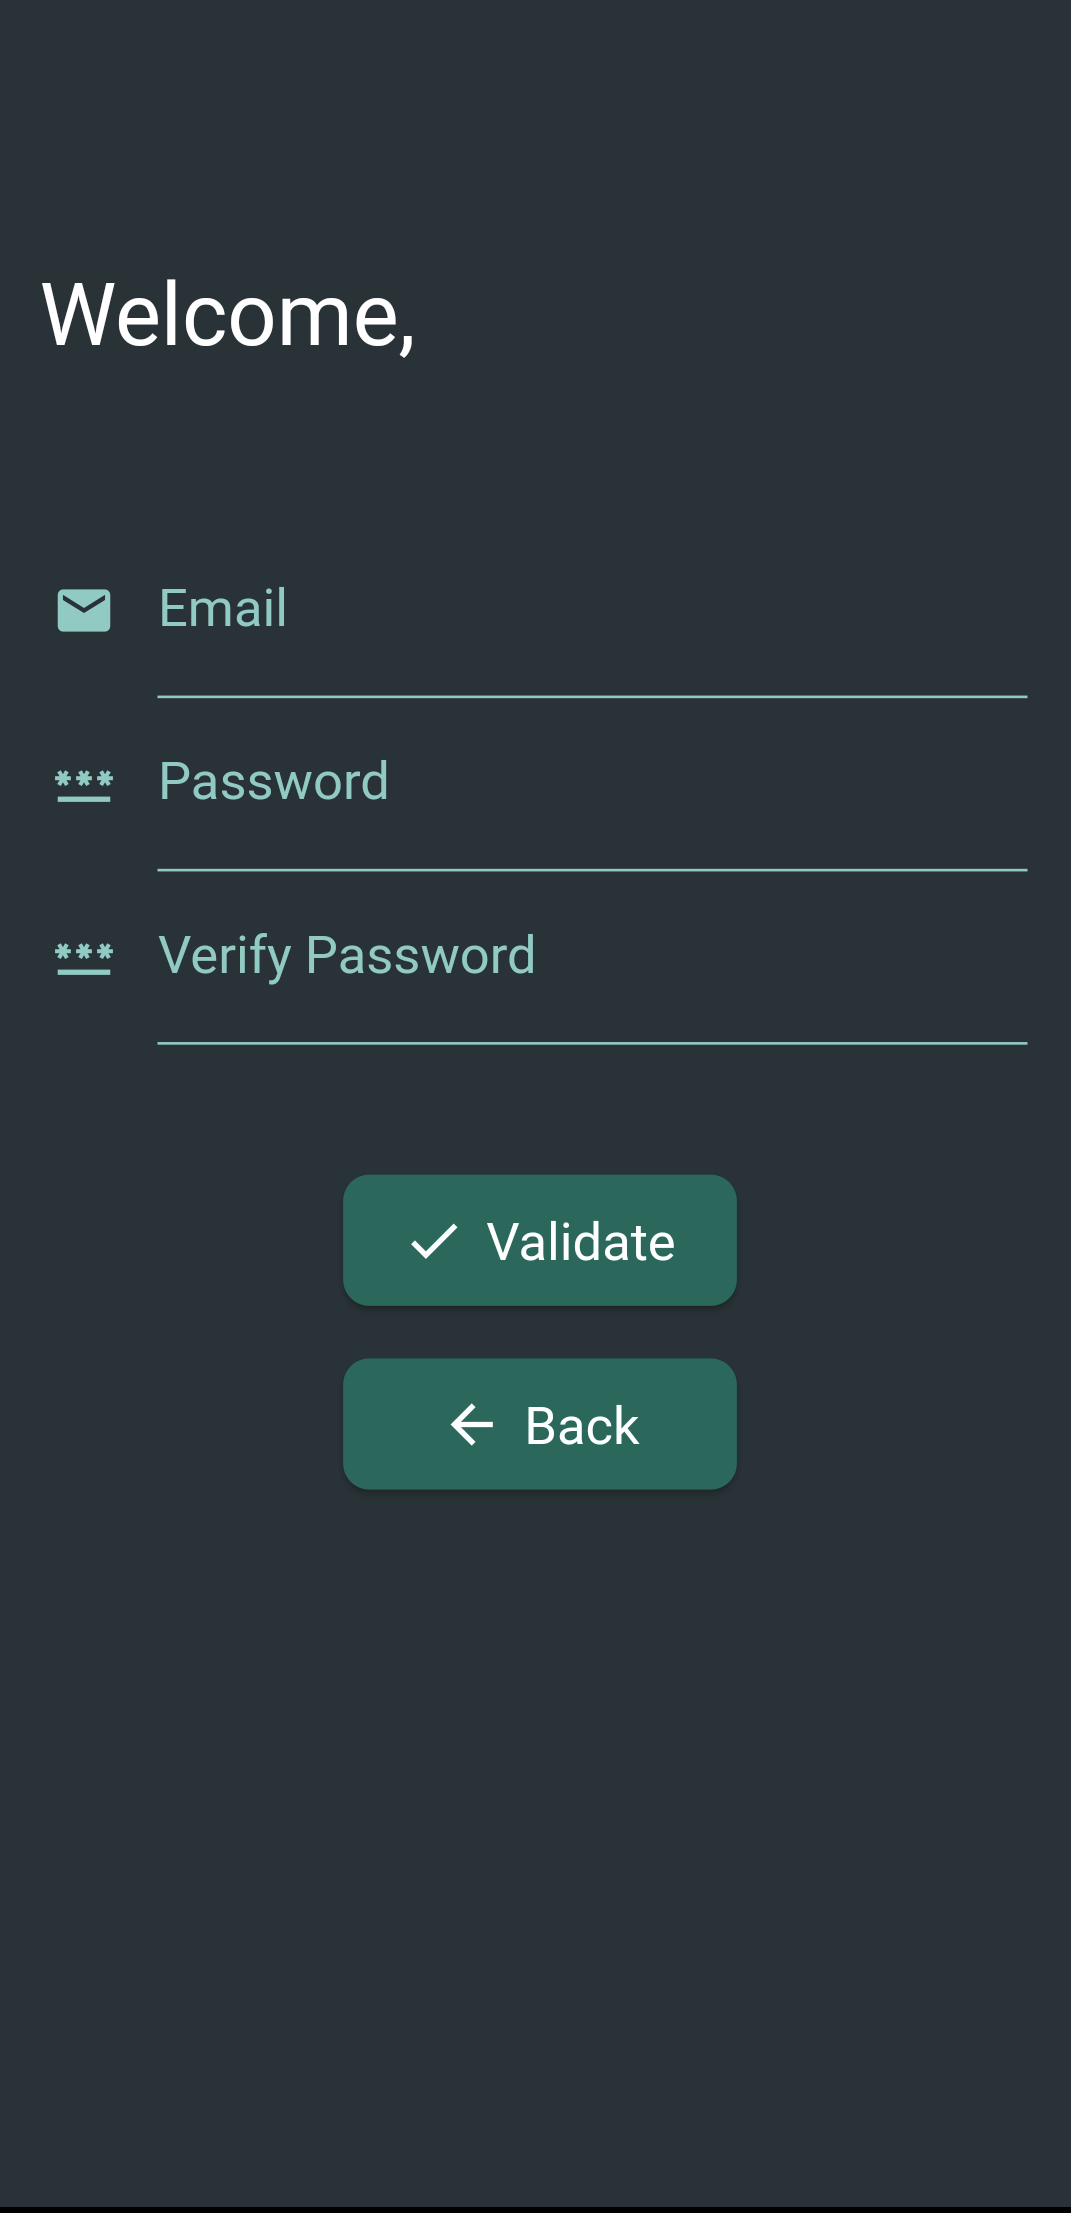
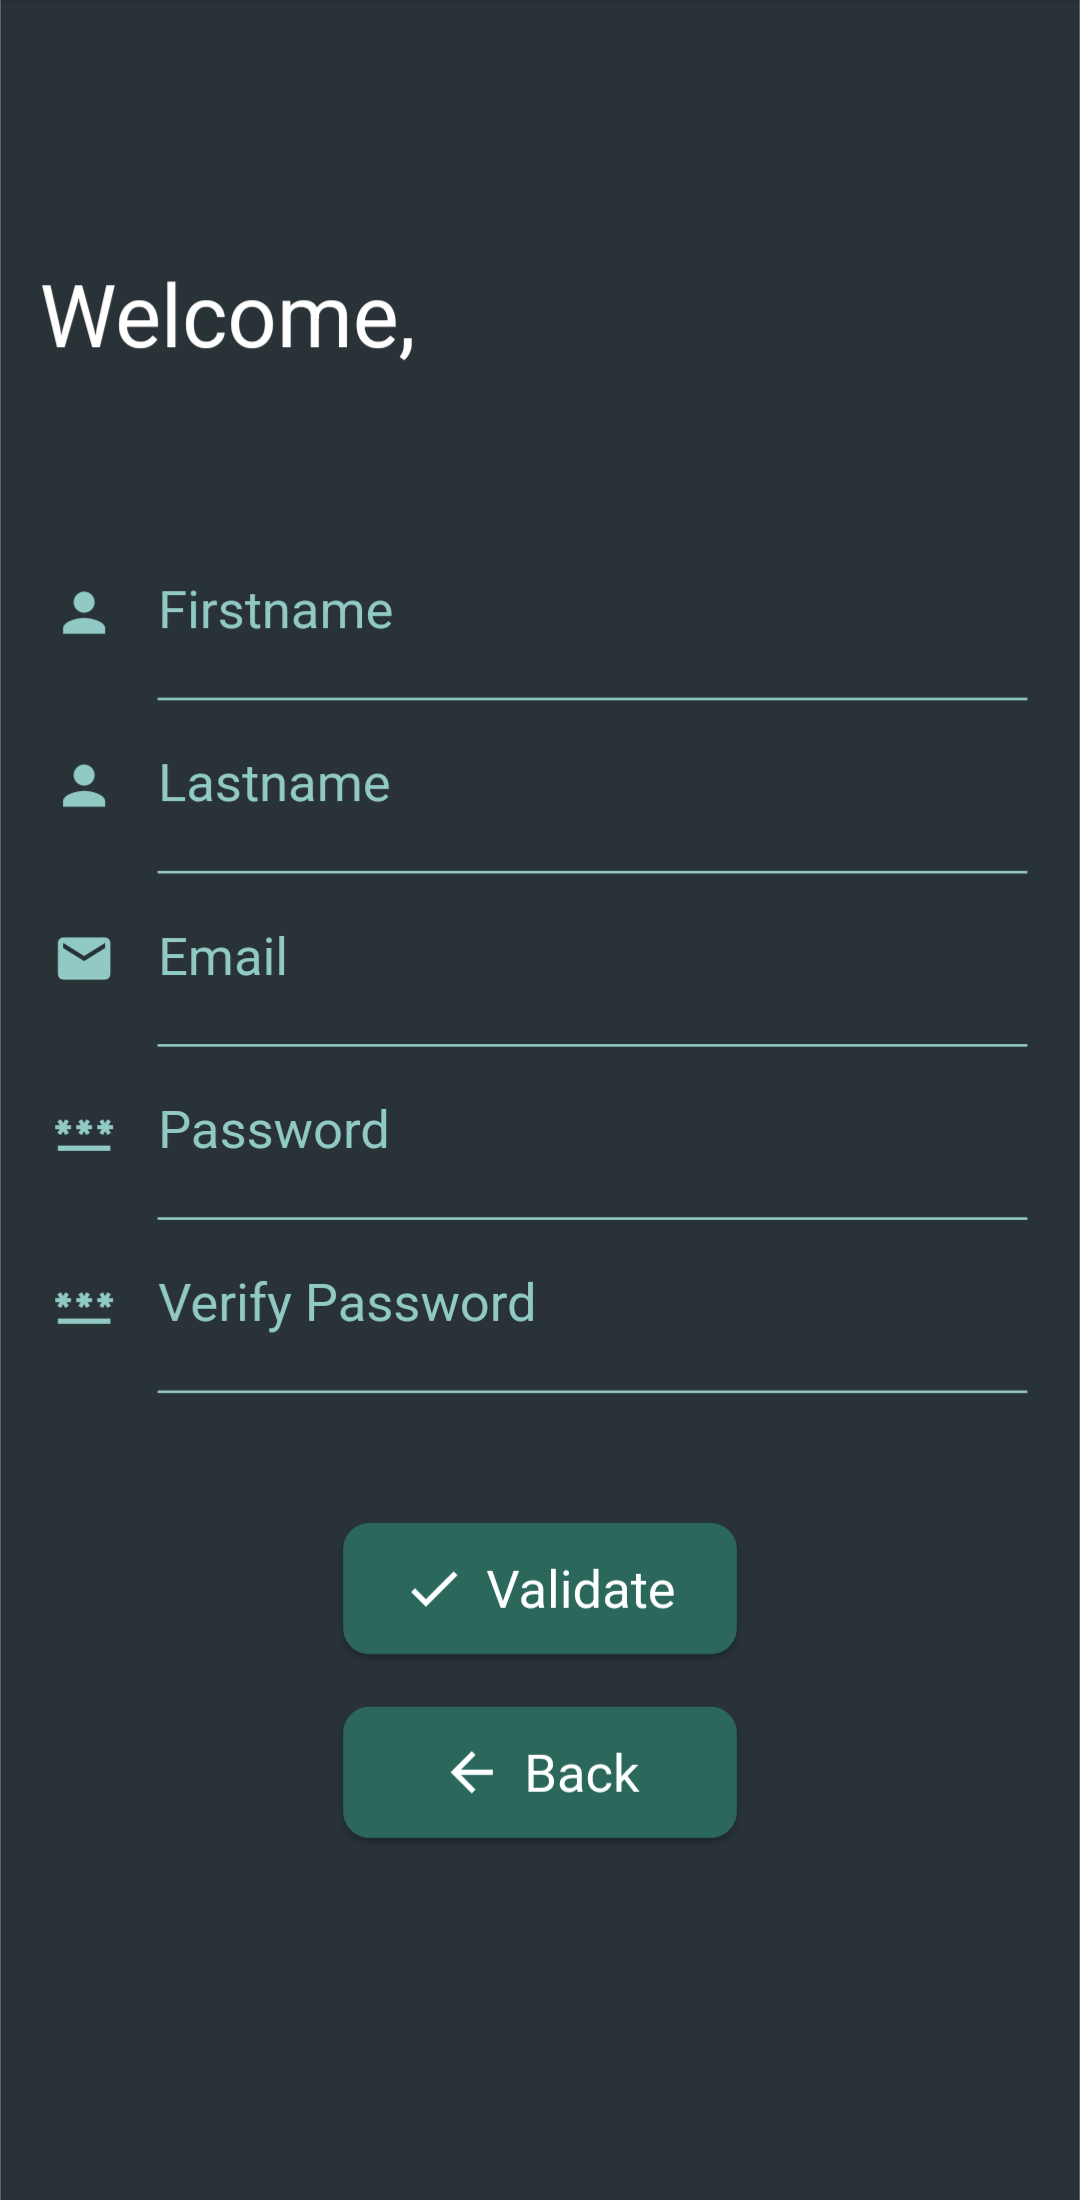
add user names and unfollow feature (#22)

diff --git a/lib/presentation/registration/screens/registration_screen.dart b/lib/presentation/registration/screens/registration_screen.dart
@@ -47,6 +47,34 @@ class RegistrationScreen extends HookConsumerWidget {
                       key: formKey,
                       child: Column(
                         children: [
+                          // Firstname TextFormField
+                          TextFormField(
+                            style: FormUtils.darkTextFormFieldStyle,
+                            decoration: FormUtils.createInputDecorative(
+                              AppLocalizations.of(context)!.firstname,
+                              dark: true,
+                              icon: Icons.person,
+                            ),
+                            validator: (value) =>
+                                LoginValidators.name(context, value),
+                            onSaved: (value) {
+                              provider.setFirstname(value);
+                            },
+                          ),
+                          // Lastname TextFormField
+                          TextFormField(
+                            style: FormUtils.darkTextFormFieldStyle,
+                            decoration: FormUtils.createInputDecorative(
+                              AppLocalizations.of(context)!.lastname,
+                              dark: true,
+                              icon: Icons.person,
+                            ),
+                            validator: (value) =>
+                                LoginValidators.name(context, value),
+                            onSaved: (value) {
+                              provider.setLastname(value);
+                            },
+                          ),
                           // Email TextFormField
                           TextFormField(
                             style: FormUtils.darkTextFormFieldStyle,

diff --git a/lib/presentation/registration/view_model/registration_view_model.dart b/lib/presentation/registration/view_model/registration_view_model.dart
@@ -1,7 +1,7 @@
 import 'package:flutter/material.dart';
 import 'package:hooks_riverpod/hooks_riverpod.dart';
 
-import '../../../data/model/request/login_request.dart';
+import '../../../data/model/request/registration_request.dart';
 import '../../../data/repositories/user_repository_impl.dart';
 import '../../../main.dart';
 import 'state/registration_state.dart';
@@ -16,6 +16,16 @@ class RegistrationViewModel extends StateNotifier<RegistrationState> {
 
   /// Creates a new instance of [RegistrationViewModel].
   RegistrationViewModel(this.ref) : super(RegistrationState.initial());
+
+  /// Sets the firstname in the state.
+  void setFirstname(String? firstname) {
+    state = state.copyWith(firstname: firstname);
+  }
+
+  /// Sets the lastname in the state.
+  void setLastname(String? lastname) {
+    state = state.copyWith(lastname: lastname);
+  }
 
   /// Sets the username in the state.
   void setUsername(String? username) {
@@ -41,13 +51,15 @@ class RegistrationViewModel extends StateNotifier<RegistrationState> {
       state = state.copyWith(isLogging: true);
 
       final userRepository = ref.read(userRepositoryProvider);
-      final loginRequest = LoginRequest(
+      final registrationRequest = RegistrationRequest(
+        firstname: state.firstname,
+        lastname: state.lastname,
         username: state.username,
         password: state.password,
       );
 
       try {
-        await userRepository.register(loginRequest);
+        await userRepository.register(registrationRequest);
         navigatorKey.currentState?.pop();
       } catch (error) {
         // Show error message to the user

diff --git a/lib/presentation/registration/view_model/state/registration_state.dart b/lib/presentation/registration/view_model/state/registration_state.dart
@@ -1,5 +1,7 @@
 /// Represents the state of the registration screen.
 class RegistrationState {
+  final String firstname;
+  final String lastname;
   final String username;
   final String password;
   final String checkPassword;
@@ -7,6 +9,8 @@ class RegistrationState {
 
   /// Creates a new instance of [RegistrationState].
   const RegistrationState({
+    required this.firstname,
+    required this.lastname,
     required this.username,
     required this.password,
     required this.checkPassword,
@@ -16,6 +20,8 @@ class RegistrationState {
   /// Creates the initial state for the registration screen.
   factory RegistrationState.initial() {
     return const RegistrationState(
+      firstname: '',
+      lastname: '',
       username: '',
       password: '',
       checkPassword: '',
@@ -25,12 +31,16 @@ class RegistrationState {
 
   /// Creates a copy of this state object with the specified changes.
   RegistrationState copyWith({
+    String? firstname,
+    String? lastname,
     String? username,
     String? password,
     String? checkPassword,
     bool? isLogging,
   }) {
     return RegistrationState(
+      firstname: firstname ?? this.firstname,
+      lastname: lastname ?? this.lastname,
       username: username ?? this.username,
       password: password ?? this.password,
       checkPassword: checkPassword ?? this.checkPassword,

diff --git a/lib/data/model/response/user_response.dart b/lib/data/model/response/user_response.dart
@@ -6,22 +6,37 @@ class UserResponse extends Equatable {
   /// The ID of the user.
   final String id;
 
+  /// The firstname of the user
+  final String? firstname;
+
+  /// The lastname of the user
+  final String? lastname;
+
   /// The username of the user
   final String username;
 
   /// Constructs an UserResponse object with the given parameters.
-  const UserResponse({required this.id, required this.username});
+  const UserResponse(
+      {required this.id,
+      required this.username,
+      required this.firstname,
+      required this.lastname});
 
   @override
   List<Object?> get props => [id, username];
 
   /// Creates an UserResponse object from a JSON map.
   factory UserResponse.fromMap(Map<String, dynamic> map) {
-    return UserResponse(id: map['id'].toString(), username: map['username']);
+    return UserResponse(
+        id: map['id'].toString(),
+        username: map['username'],
+        firstname: map['firstname'],
+        lastname: map['lastname']);
   }
 
   /// Converts the UserResponse object to a User entity.
   User toEntity() {
-    return User(id: id, username: username);
+    return User(
+        id: id, username: username, firstname: firstname, lastname: lastname);
   }
 }

diff --git a/lib/data/model/request/registration_request.dart b/lib/data/model/request/registration_request.dart
@@ -1,0 +1,40 @@
+import 'package:equatable/equatable.dart';
+
+/// Represents a registration request object.
+class RegistrationRequest extends Equatable {
+  /// The firstname for the registration request.
+  final String firstname;
+
+  /// The lastname for the registration request.
+  final String lastname;
+
+  /// The username for the registration request.
+  final String username;
+
+  /// The password for the registration request.
+  final String password;
+
+  /// Constructs a RegistrationRequest object with the given parameters.
+  const RegistrationRequest({
+    required this.firstname,
+    required this.lastname,
+    required this.username,
+    required this.password,
+  });
+
+  @override
+  List<Object?> get props => [username, password];
+
+  /// Converts the RegistrationRequest object to a JSON map.
+  Map<String, dynamic> toMap() {
+    return {
+      'firstname': firstname,
+      'lastname': lastname,
+      'username': username,
+      'password': password,
+    };
+  }
+
+  @override
+  bool get stringify => true;
+}

diff --git a/lib/presentation/common/user/widgets/friend_request.dart b/lib/presentation/common/user/widgets/friend_request.dart
@@ -23,15 +23,21 @@ class FriendRequestWidget extends HookConsumerWidget {
         Colors.orange,
       );
     } else if (state.friendshipStatus == FriendRequestStatus.accepted) {
-      return _buildStatusWidget(
-        context,
-        Icons.check,
-        Colors.green,
-        AppLocalizations.of(context)!.followed,
-        Colors.green,
+      return ElevatedButton(
+        onPressed: () {
+          provider.unfollow(userId);
+        },
+        style: ElevatedButton.styleFrom(
+          primary: Colors.red.shade800,
+        ),
+        child: _buildStatusWidget(
+          context,
+          Icons.person_remove,
+          Colors.white,
+          AppLocalizations.of(context)!.unfollow,
+          Colors.white,
+        ),
       );
-    } else if (state.friendshipStatus == FriendRequestStatus.rejected) {
-      return Container();
     } else {
       return ElevatedButton(
         onPressed: () {

diff --git a/lib/presentation/common/core/validators/login_validators.dart b/lib/presentation/common/core/validators/login_validators.dart
@@ -4,6 +4,18 @@ import 'package:flutter_gen/gen_l10n/app_localizations.dart';
 
 /// Validators for login form fields.
 class LoginValidators {
+  /// Validates the names [value].
+  ///
+  /// The [context] is the build context for localization.
+  /// The [value] is the name input value to validate.
+  /// Returns an error message if the name is empty, or null if the name is valid.
+  static String? name(BuildContext context, String? value) {
+    if (value == null || value.isEmpty) {
+      return AppLocalizations.of(context)!.form_description_name_empty;
+    }
+    return null;
+  }
+
   /// Validates the email [value].
   ///
   /// The [context] is the build context for localization.

diff --git a/lib/domain/entities/user.dart b/lib/domain/entities/user.dart
@@ -5,12 +5,22 @@ class User extends Equatable {
   /// The ID of the user.
   final String id;
 
+  /// The firstname of the user.
+  final String? firstname;
+
+  /// The lastname of the user.
+  final String? lastname;
+
   /// The username of the user.
   final String username;
 
   /// Constructs a User object with the given parameters.
-  const User({required this.id, required this.username});
+  const User(
+      {required this.id,
+      required this.username,
+      required this.firstname,
+      required this.lastname});
 
   @override
-  List<Object?> get props => [id, username];
+  List<Object?> get props => [id, username, firstname, lastname];
 }

diff --git a/lib/domain/repositories/user_repository.dart b/lib/domain/repositories/user_repository.dart
@@ -1,3 +1,5 @@
+import 'package:run_flutter_run/data/model/request/registration_request.dart';
+
 import '../../data/model/request/edit_password_request.dart';
 import '../../data/model/request/login_request.dart';
 import '../../data/model/request/send_new_password_request.dart';
@@ -7,7 +9,7 @@ import '../entities/user.dart';
 /// Abstract class representing the user repository.
 abstract class UserRepository {
   /// Registers a new user.
-  Future<int> register(LoginRequest request);
+  Future<int> register(RegistrationRequest request);
 
   /// Performs user login.
   Future<LoginResponse> login(LoginRequest request);

diff --git a/lib/data/api/user_api.dart b/lib/data/api/user_api.dart
@@ -1,4 +1,5 @@
 import 'package:dio/dio.dart';
+import 'package:run_flutter_run/data/model/request/registration_request.dart';
 import '../model/response/user_response.dart';
 
 import '../../core/utils/storage_utils.dart';
@@ -13,7 +14,7 @@ class UserApi {
   /// Creates a new user.
   ///
   /// Returns the user ID as an integer.
-  static Future<int> createUser(LoginRequest request) async {
+  static Future<int> createUser(RegistrationRequest request) async {
     Response? response = await ApiHelper.makeRequest(
         '${ApiHelper.apiUrl}user/register', 'POST',
         data: request.toMap());

diff --git a/lib/presentation/common/activity/widgets/activity_item.dart b/lib/presentation/common/activity/widgets/activity_item.dart
@@ -85,7 +85,10 @@ class ActivityItem extends HookConsumerWidget {
                 children: [
                   if (displayUserName)
                     Text(
-                      activity.user.username,
+                      activity.user.firstname != null &&
+                              activity.user.lastname != null
+                          ? '${activity.user.firstname} ${activity.user.lastname}'
+                          : activity.user.username,
                       style: TextStyle(
                         color: Colors.grey.shade700,
                         fontFamily: 'Avenir',

diff --git a/lib/presentation/community/widgets/search_widget.dart b/lib/presentation/community/widgets/search_widget.dart
@@ -35,8 +35,11 @@ class SearchWidget extends HookConsumerWidget implements PreferredSizeWidget {
         },
         itemBuilder: (BuildContext context, User suggestion) {
           return ListTile(
-            title: Text(suggestion.username),
-          );
+              title: Text(
+            suggestion.firstname != null && suggestion.lastname != null
+                ? '${suggestion.firstname} ${suggestion.lastname}'
+                : suggestion.username,
+          ));
         },
         onSuggestionSelected: (User suggestion) =>
             provider.goToUserProfile(suggestion),
